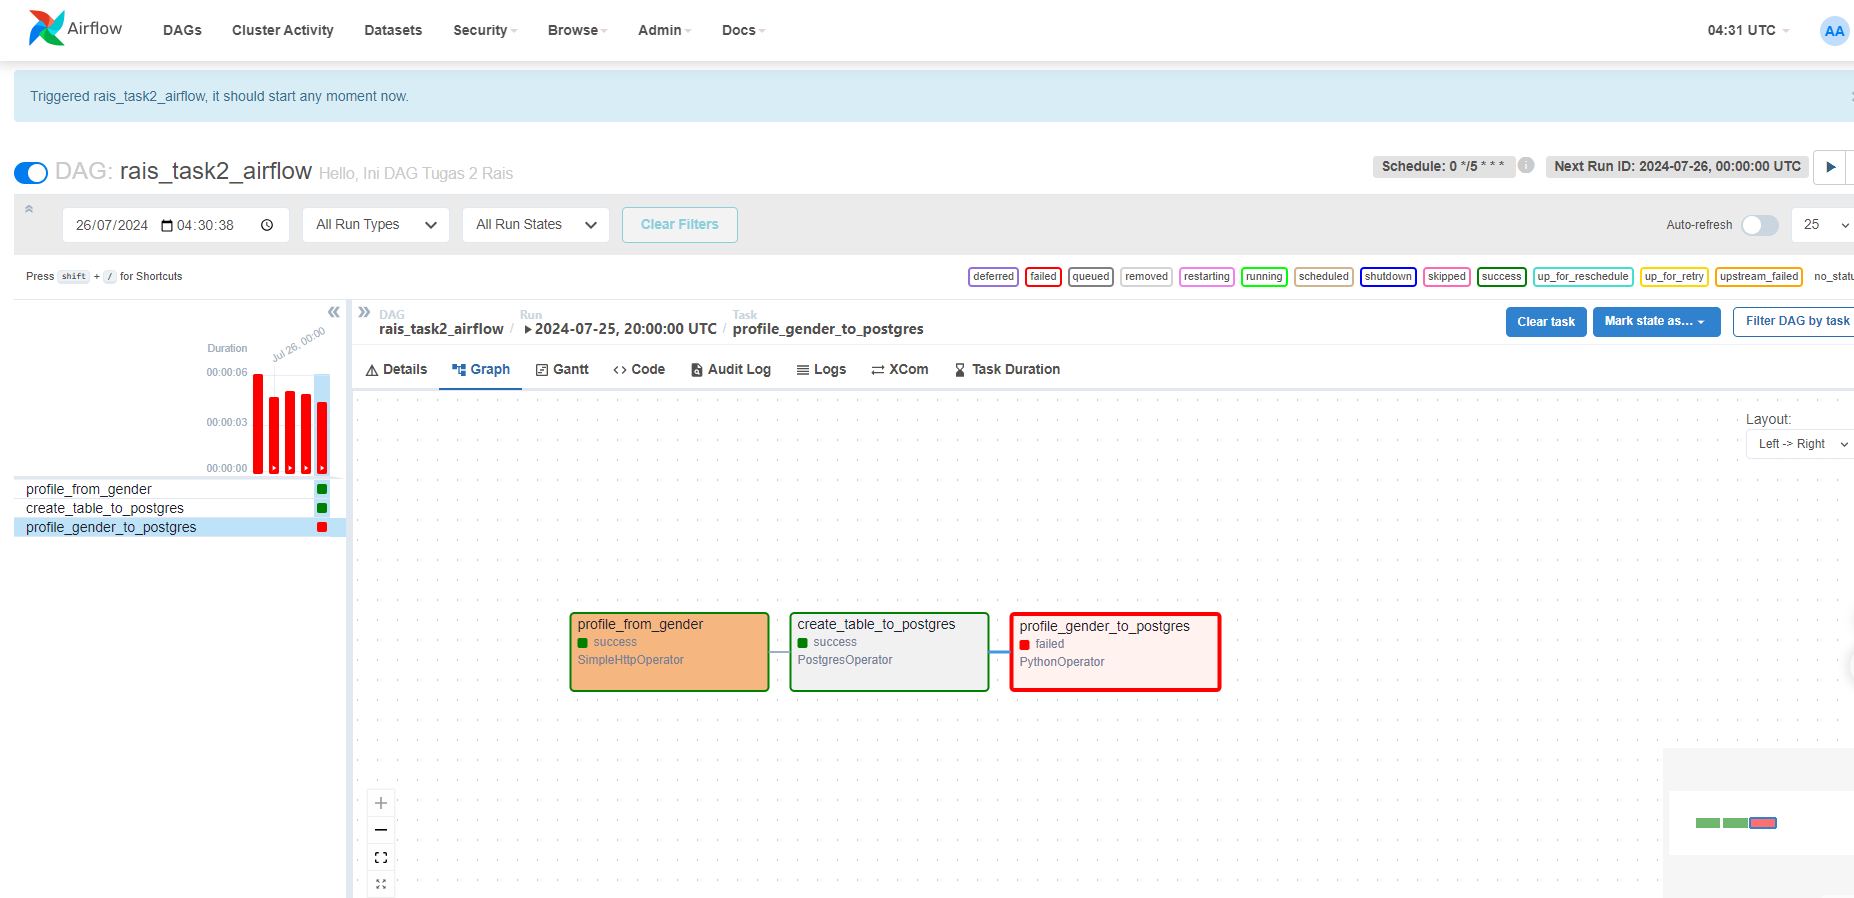
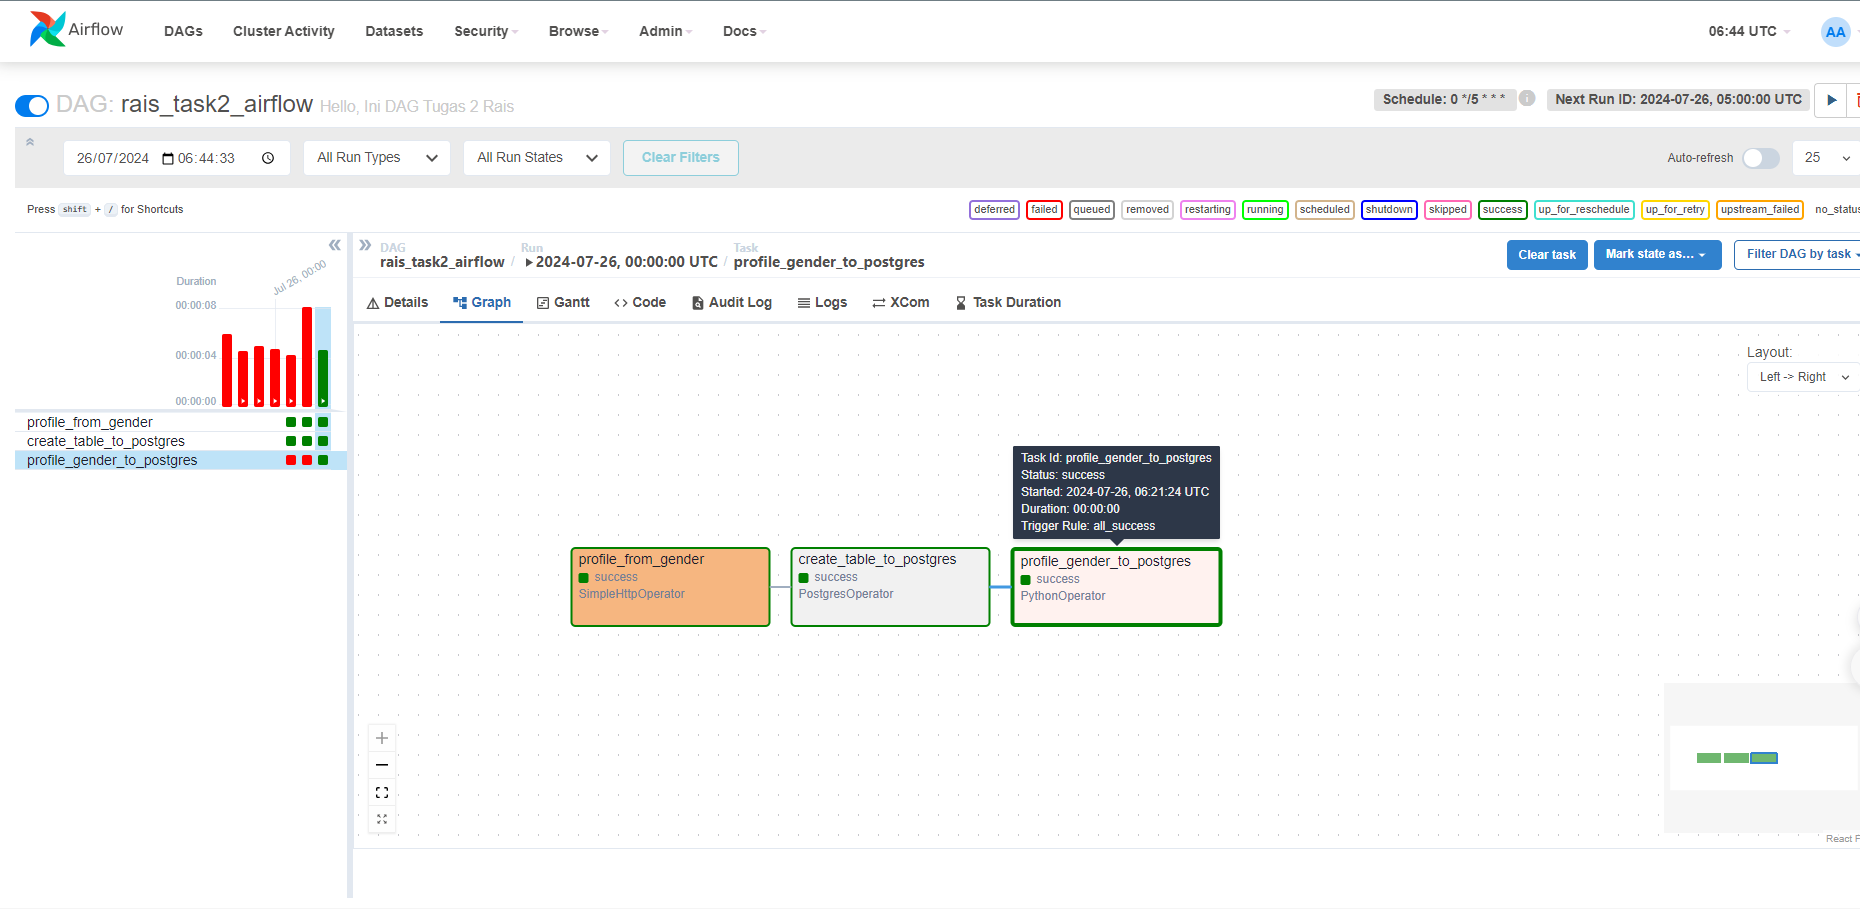
Fixed Task 2 | Typo

diff --git a/TASK-2/full_code_task2.py b/TASK-2/full_code_task2.py
@@ -72,7 +72,7 @@ def load_predictions_to_postgres(**kwargs):
         probability = prediction['probability']
         gender = prediction['gender']
         pg_hook.run("""
-            INSERT INTO gender_name_prediction (input, details, result_found, first_name, probability, gender)
+            INSERT INTO rais_gender_name_prediction_task2 (input, details, result_found, first_name, probability, gender)
             VALUES (%s, %s, %s, %s, %s, %s);
         """, parameters=(input_data, details_data, result_found, first_name, probability, gender))
 
